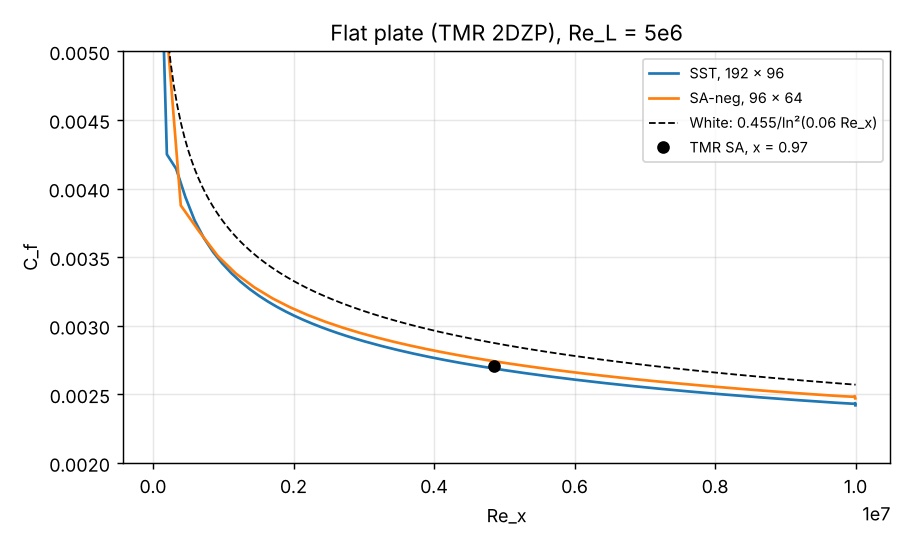
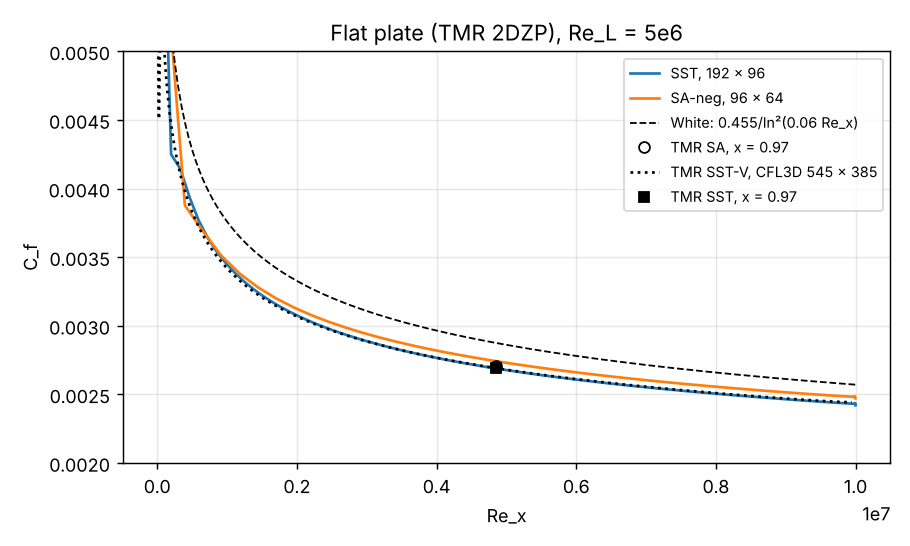
SST flat plate against the TMR SST reference values
TMR (now tmbwg.github.io/turbmodels) flatplate_sst.html, SST-Vm finest grid:
C_f(0.97) 0.0026907, C_D 0.0028488. PyAeroFlow SST-2003m: -0.1 % and +0.5 %
on 192 x 96 cells; the verification test now checks the SST values (1 %).

Claude-Session: https://claude.ai/code/session_01UQAPx8KQfY1St48e4igQ9e

diff --git a/tests/verification/test_rans_plate.py b/tests/verification/test_rans_plate.py
@@ -107,11 +107,12 @@ def test_aft_transition_on_the_plate():
 
 def test_sst_turbulent_plate():
     """k-omega SST-2003m on the TMR plate, TMR SST freestream (k = 2.25e-7 U^2,
-    mu_t/mu = 0.009): C_f(0.97) 0.002684 / 0.002684 / 0.002689 and C_D
-    0.002869 / 0.002866 / 0.002864 on 48 x 48 / 96 x 64 / 192 x 96 cells, i.e.
-    grid-converged, 0.8 % below and 0.3 % above the TMR SA values."""
+    omega = 125 U/L, mu_t/mu = 0.009): C_f(0.97) 0.002684 / 0.002684 / 0.002689
+    and C_D 0.002869 / 0.002866 / 0.002864 on 48 x 48 / 96 x 64 / 192 x 96
+    cells, against the TMR SST values 0.0026907 and 0.0028488 (-0.2 % / +0.6 %
+    on 48 x 48)."""
     r = tp.solve(48, 12, 48, turbulence="sst")
     assert r.converged and r.y_plus_max < 1.0
-    assert r.cf_097 == pytest.approx(r.reference["cf_097"], rel=0.015)
-    assert r.cd == pytest.approx(r.reference["cd"], rel=0.015)
+    assert r.cf_097 == pytest.approx(r.reference["cf_097"], rel=0.01)
+    assert r.cd == pytest.approx(r.reference["cd"], rel=0.01)
     assert r.cf[r.x > 0.2].min() > 0.002

diff --git a/src/pyaeroflow/cases/tmr_flat_plate.py b/src/pyaeroflow/cases/tmr_flat_plate.py
@@ -28,6 +28,12 @@ from pyaeroflow.solver import PseudoTimeSettings
 # 0.0027054 (FUN3D); C_D, reference area 2 (the whole plate), is 0.0028599
 # (CFL3D) and 0.0028525 (FUN3D). The means of the two codes are used.
 TMR_REFERENCE = {"cf_097": 0.0027055, "cd": 0.0028562}
+# NASA TMR (now tmbwg.github.io/turbmodels), flatplate_sst.html, SST-Vm (on
+# this plate the same as SST-2003m: vorticity = strain), finest grid, data
+# files FlatPlate/SST/cf_convergence_sstv.dat and drag_convergence_sstv.dat:
+# C_f(0.970084) 0.0026909 (CFL3D) and 0.0026905 (FUN3D), C_D 0.0028533 and
+# 0.0028442; the means are used.
+TMR_REFERENCE_SST = {"cf_097": 0.0026907, "cd": 0.0028488}
 
 
 def plate_mesh(nx_plate=96, nx_front=24, ny=64, reynolds=5.0e6, y_plus=1.0, height=1.0):
@@ -162,5 +168,5 @@ def solve(
         cf_097,
         cd,
         float(y_plus.max()),
-        TMR_REFERENCE,
+        TMR_REFERENCE_SST if turbulence == "sst" else TMR_REFERENCE,
     )

diff --git a/docs/validation.md b/docs/validation.md
@@ -26,7 +26,7 @@ Click a case to jump to its section; each section ends with a link back here.
 | 6 | [NACA 0012, Re 6·10⁶](#sec-6) | validation | Ladson 1988, Gregory & O'Reilly 1970, NASA TMR | `examples/stage6_pyaero_validation.py` |
 | 7 (0.8) | [BCM transition, flat plate](#sec-7-plate) | verification/validation | Blasius, ERCOFTAC T3A | `tests/verification/test_rans_plate.py`, `pyaeroflow run examples/cases/flat_plate_transition.toml` |
 | 7 (0.8) | [BCM transition, Eppler 387](#sec-7-e387) | validation | McGhee, Walker & Millard 1988 (NASA TM 4062) | `pyaeroflow polar examples/cases/e387_transition.toml --alpha 4 6 8 2 0 -2` |
-| L2 (0.9) | [k-ω SST: flat plate, SD7003](#sec-9) | verification/validation | NASA TMR (SA values), LES/DNS, XFOIL, SA-AFT | `tests/verification/test_rans_plate.py::test_sst_turbulent_plate`, `pyaeroflow run examples/cases/sst_sd7003.toml` |
+| L2 (0.9) | [k-ω SST: flat plate, SD7003](#sec-9) | verification/validation | NASA TMR SST, LES/DNS, XFOIL, SA-AFT | `tests/verification/test_rans_plate.py::test_sst_turbulent_plate`, `pyaeroflow run examples/cases/sst_sd7003.toml` |
 
 The figures are committed under `docs/figures/`; `examples/output/` (where
 the scripts write) is not tracked.
@@ -298,22 +298,23 @@ XFOIL comparison) are next.
 ### Flat plate
 
 TMR 2DZP domain, Re_L = 5·10⁶, TMR SST freestream (k = 9·10⁻⁹ a² at
-M = 0.2, i.e. k = 2.25·10⁻⁷ U², μ_t/μ = 0.009). The TMR SST reference values
-could not be fetched (the TMR site has moved), so the table compares with
-the TMR SA values; on this plate SST and SA agree to about 1 % in the
-literature.
+M = 0.2, i.e. k = 2.25·10⁻⁷ U², ω = 125 U/L, μ_t/μ = 0.009), against the
+TMR SST values (`flatplate_sst.html`, SST-Vm, finest grid 545 × 385, mean of
+CFL3D and FUN3D: C_f(0.97) = 0.0026907, C_D = 0.0028488; on this plate
+SST-Vm and SST-2003m coincide, vorticity = strain rate):
 
 | mesh | cells | C_f(0.97) | C_D | y⁺ max | iterations |
 |---|---|---|---|---|---|
-| 48 × 48 | 2 880 | 0.002684 (−0.8 %) | 0.002869 (+0.4 %) | 0.64 | 153 |
-| 96 × 64 | 7 680 | 0.002684 (−0.8 %) | 0.002866 (+0.3 %) | 0.68 | 158 |
-| 192 × 96 | 23 040 | 0.002689 (−0.6 %) | 0.002864 (+0.3 %) | 0.74 | 181 |
+| 48 × 48 | 2 880 | 0.002684 (−0.2 %) | 0.002869 (+0.7 %) | 0.64 | 153 |
+| 96 × 64 | 7 680 | 0.002684 (−0.2 %) | 0.002866 (+0.6 %) | 0.68 | 158 |
+| 192 × 96 | 23 040 | 0.002689 (−0.1 %) | 0.002864 (+0.5 %) | 0.74 | 181 |
 
 The solution is grid-converged. It depends on the wall value of ω, which a
 cell-centred scheme does not resolve (ω ~ 1/y²): with d₁ = the wall-cell
 height (the default, SU2's first mesh spacing on the same points) C_f(0.97)
-is 0.002689, with d₁ = the centroid distance (ω_wall four times larger)
-0.002630 at 192 × 96, about 2 % lower at every grid level.
+is 0.002689 (TMR 0.0026907), with d₁ = the centroid distance (ω_wall four
+times larger) 0.002630 at 192 × 96, about 2 % lower at every grid level: the
+TMR value confirms the wall-cell height.
 
 ![SST flat plate](figures/sst_plate_cf.png)
 

diff --git a/CHANGELOG.md b/CHANGELOG.md
@@ -10,7 +10,8 @@
   k and ω (form b needs `intensity`; default Tu 0.1 %, ν_t/ν = 1). New VTU
   fields `k`, `omega`, `blending_f1`, `residual_k`, `residual_omega`, and
   `mu_t` for every RANS model; `nu_tilde` and `residual_nu_tilde` are SA
-  only. Flat plate: C_f(0.97) grid-converged, 0.8 % below the TMR SA value;
+  only. Flat plate: C_f(0.97) and C_D grid-converged, 0.1 % and 0.5 % from the
+  TMR SST values;
   SD7003 comparison in `docs/validation.md` §9.
 
 - Saved-state files renamed (D56, D60). Backups are `<name>.backup_000100.npz`
